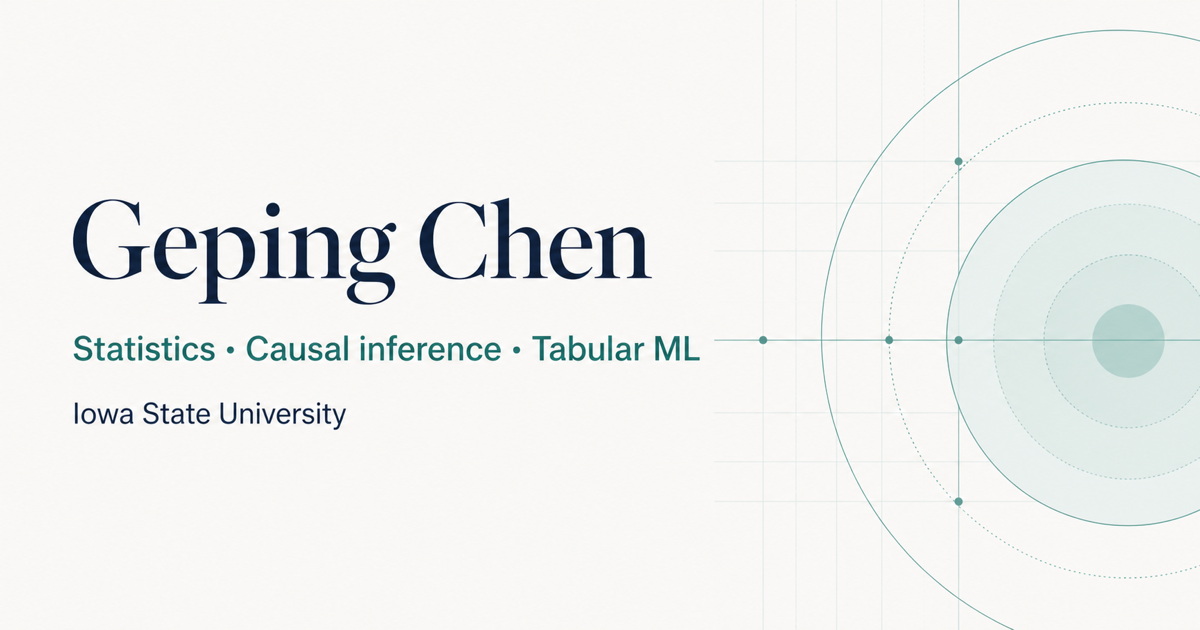
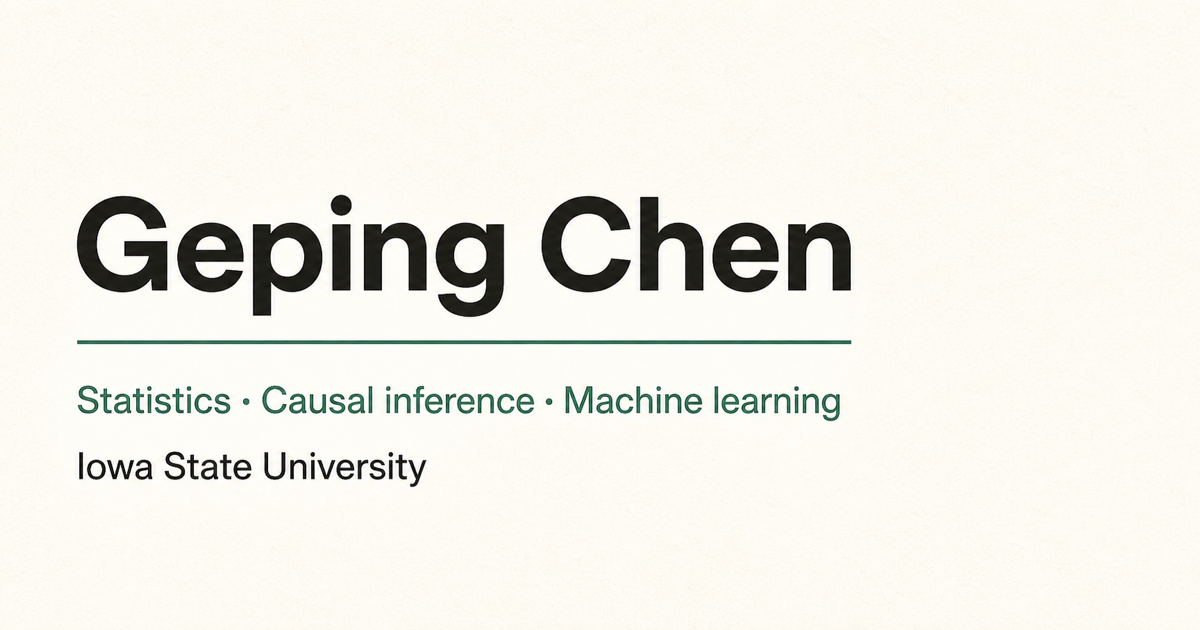
Polish site layout and social preview

diff --git a/src/styles/global.css b/src/styles/global.css
@@ -8,8 +8,8 @@
   --color-accent-deep: #254f47;
   --color-line: #ddd7ce;
   --color-focus: #a94719;
-  --font-sans: Inter, ui-sans-serif, -apple-system, BlinkMacSystemFont, "Segoe UI", sans-serif;
-  --font-serif: Charter, "Bitstream Charter", "Sitka Text", Cambria, Georgia, serif;
+  --font-sans: ui-sans-serif, -apple-system, BlinkMacSystemFont, "Segoe UI", sans-serif;
+  --font-serif: Georgia, Cambria, "Times New Roman", serif;
   --shell: 64rem;
   --reading-column: 48rem;
 }
@@ -71,7 +71,7 @@ h3 {
 h1 {
   margin-bottom: 1.35rem;
   font-size: clamp(2.75rem, 7vw, 4.6rem);
-  font-weight: 720;
+  font-weight: 700;
   letter-spacing: -0.045em;
 }
 
@@ -140,7 +140,7 @@ ul {
   color: var(--color-ink);
   font-family: var(--font-sans);
   font-size: 1rem;
-  font-weight: 750;
+  font-weight: 700;
   letter-spacing: -0.01em;
   text-decoration: none;
 }
@@ -161,7 +161,7 @@ ul {
   color: var(--color-muted);
   font-family: var(--font-sans);
   font-size: 0.88rem;
-  font-weight: 650;
+  font-weight: 600;
   text-decoration: none;
 }
 
@@ -267,7 +267,18 @@ ul {
 }
 
 .home-work-role {
-  color: var(--color-muted);
+  color: var(--color-ink);
+}
+
+.home-work-role strong,
+.project-role strong,
+.publication-contribution strong {
+  color: var(--color-accent-deep);
+  font-family: var(--font-sans);
+  font-size: 0.78rem;
+  font-weight: 700;
+  letter-spacing: 0.04em;
+  text-transform: uppercase;
 }
 
 .home-work-methods {
@@ -351,13 +362,13 @@ ul {
 }
 
 .page-hero {
-  padding-block: clamp(3.75rem, 9vw, 6rem);
+  padding-block: clamp(3.25rem, 7vw, 5rem);
   border-bottom: 1px solid var(--color-line);
 }
 
 .page-hero h1 {
-  max-width: 17ch;
-  font-size: clamp(2.65rem, 6vw, 4.1rem);
+  max-width: 16ch;
+  font-size: clamp(2.35rem, 5.2vw, 3.55rem);
 }
 
 .page-intro {
@@ -374,7 +385,7 @@ ul {
 }
 
 .section {
-  padding-block: clamp(3.75rem, 8vw, 5.5rem);
+  padding-block: clamp(3.25rem, 7vw, 4.75rem);
 }
 
 .section-contrast {
@@ -384,7 +395,7 @@ ul {
 
 .section-heading {
   display: grid;
-  margin-bottom: clamp(2rem, 5vw, 3.25rem);
+  margin-bottom: clamp(1.8rem, 4vw, 2.65rem);
   gap: 0.7rem;
 }
 
@@ -411,7 +422,7 @@ ul {
 }
 
 .project-card {
-  padding-block: 2rem;
+  padding-block: 2.25rem;
   border-top: 1px solid var(--color-line);
 }
 
@@ -429,6 +440,7 @@ ul {
 
 .project-summary,
 .publication-item > p {
+  max-width: 44rem;
   color: var(--color-muted);
 }
 
@@ -438,7 +450,10 @@ ul {
 }
 
 .contribution-list {
+  max-width: 44rem;
   margin-block: 1.15rem;
+  padding-left: 1.35rem;
+  border-left: 2px solid var(--color-line);
 }
 
 .contribution-list li + li {
@@ -563,7 +578,7 @@ ul {
 @media (max-width: 40rem) {
   .header-inner {
     min-height: auto;
-    padding-block: 0.8rem;
+    padding-block: 0.6rem;
     align-items: flex-start;
     flex-direction: column;
     gap: 0.1rem;
@@ -572,6 +587,27 @@ ul {
   .nav-list {
     width: 100%;
     gap: 1.25rem;
+  }
+
+  .wordmark {
+    min-height: 2.2rem;
+  }
+
+  .home-intro {
+    padding-block: 3.25rem 3.75rem;
+  }
+
+  .page-hero {
+    padding-block: 3rem 3.4rem;
+  }
+
+  .page-hero h1 {
+    font-size: 2.25rem;
+  }
+
+  .home-section,
+  .section {
+    padding-block: 3.25rem;
   }
 
   .home-work-topline {
